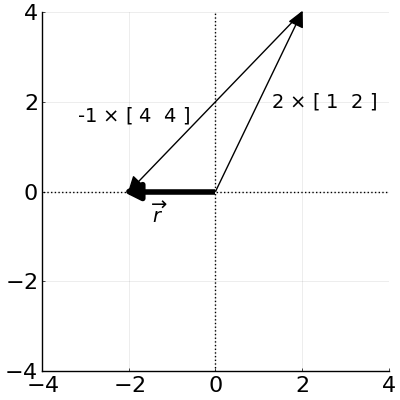
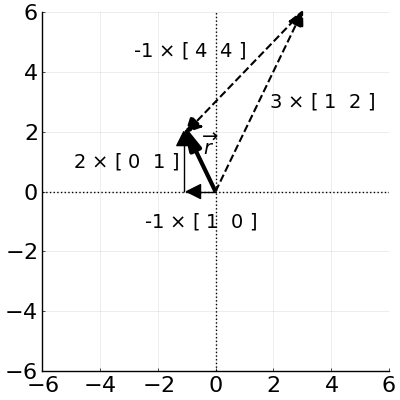
Move Ron's example vector off the x-axis.

diff --git a/linearIndep.tex b/linearIndep.tex
@@ -840,7 +840,7 @@ how.
 \index{domino basis}
 
 Ron has a two-dimensional vector called $\overrightarrow{\textbf{r}}$. I'll
-tell you that its coordinates are $2$ and $-1$, but before you try to visualize
+tell you that its coordinates are $3$ and $-1$, BUT before you try to visualize
 it, there's a catch: these coordinates are \textit{not} expressed in the
 standard basis, but in the ``\textit{domino basis}'' we've used several times
 in this chapter:
@@ -850,17 +850,17 @@ in this chapter:
 
 This is the first time I've used the phrase ``expressed as coordinates in a
 certain basis,'' because up until now, we've always been implicitly assuming
-the standard basis. If I said a vector had components ``3'' and ``4,'' it has
-gone without saying that I meant ``3 units in the $[\ 1\ \ 0\ ]$ direction, and
+the standard basis. If I said a vector had components ``7'' and ``4,'' it has
+gone without saying that I meant ``7 units in the $[\ 1\ \ 0\ ]$ direction, and
 4 units in the $[\ 0\ \ 1\ ]$ direction.'' Viewed in this way, a vector with
-coordinates 3 and 4 is really a linear combination of the two (standard) basis
+coordinates 7 and 4 is really a linear combination of the two (standard) basis
 vectors:
 
 \vspace{-.15in}
 \begin{align*}
-3 \cdot \begin{bmatrix} 1 \\ 0 \\ \end{bmatrix} +
+7 \cdot \begin{bmatrix} 1 \\ 0 \\ \end{bmatrix} +
 4 \cdot \begin{bmatrix} 0 \\ 1 \\ \end{bmatrix} = 
-\begin{bmatrix} 3 \\ 4 \\ \end{bmatrix}.
+\begin{bmatrix} 7 \\ 4 \\ \end{bmatrix}.
 \end{align*}
 \vspace{-.15in}
 
@@ -875,7 +875,7 @@ would write down this example vector as follows:
 
 \vspace{-.25in}
 \begin{align*}
-\begin{bmatrix} 3 \\ 4 \\ \end{bmatrix}_{B_s}.
+\begin{bmatrix} 7 \\ 4 \\ \end{bmatrix}_{B_s}.
 \end{align*}
 \vspace{-.15in}
 
@@ -889,7 +889,7 @@ Ron's vector like this:
 
 \vspace{-.15in}
 \begin{align*}
-\overrightarrow{r} = \begin{bmatrix} 2 \\ -1 \\ \end{bmatrix}_{B_d}.
+\overrightarrow{r} = \begin{bmatrix} 3 \\ -1 \\ \end{bmatrix}_{B_d}.
 \end{align*}
 \vspace{-.15in}
 
@@ -897,7 +897,7 @@ Our question is one of translation: what are Ron's coordinates in the
 \textit{standard} basis?
 
 If you think about it, that's a pretty easy question to answer. When Ron says
-his coordinates are ``2'' and ``$-1$,'' he merely means ``I've got two
+his coordinates are ``3'' and ``$-1$,'' he merely means ``I've got three
 \raisebox{-0.25\height}{\includegraphics[width=0.07\textwidth]{gray1_2.png}}'s
 and negative one
 \raisebox{-0.25\height}{\includegraphics[width=0.07\textwidth]{gray4_4.png}}'s.''
@@ -907,9 +907,9 @@ combination:
 \vspace{-.15in}
 \begin{align*}
 \overrightarrow{r} =
-2 \cdot \begin{bmatrix} 1 \\ 2 \end{bmatrix} +
+3 \cdot \begin{bmatrix} 1 \\ 2 \end{bmatrix} +
 (-1) \cdot \begin{bmatrix} 4 \\ 4 \end{bmatrix} =
-\begin{bmatrix} -2 \\ 0 \end{bmatrix}_{B_s}.
+\begin{bmatrix} -1 \\ 2 \end{bmatrix}_{B_s}.
 \end{align*}
 \vspace{-.15in}
 
@@ -922,25 +922,25 @@ representations are exactly equal:
 
 \vspace{-.15in}
 \begin{align*}
-\begin{bmatrix} 2 \\ -1 \end{bmatrix}_{B_d} =
-\begin{bmatrix} -2 \\ 0 \end{bmatrix}_{B_s}.
+\begin{bmatrix} 3 \\ -1 \end{bmatrix}_{B_d} =
+\begin{bmatrix} -1 \\ 2 \end{bmatrix}_{B_s}.
 \end{align*}
 \vspace{-.15in}
 
-You can see in Figure~\ref{basis} that whether we say ``two 
+You can see in Figure~\ref{fig:basis} that whether we say ``three
 {\scriptsize $\begin{bmatrix} 1 \\ 2 \end{bmatrix}$}'s and
 negative one {\scriptsize $\begin{bmatrix} 4 \\ 4 \end{bmatrix}$},'' or
-``negative two 
+``negative one
 {\scriptsize $\begin{bmatrix} 1 \\ 0 \end{bmatrix}$}'s and
-zero {\scriptsize $\begin{bmatrix} 0 \\ 1 \end{bmatrix}$},'' we get the same
+two {\scriptsize $\begin{bmatrix} 0 \\ 1 \end{bmatrix}$}'s,'' we get the same
 vector $\overrightarrow{\textbf{r}}$.
 
 \begin{figure}[ht]
 \centering
 \includegraphics[width=0.6\textwidth]{basis.png}
-\caption{In either the domino basis or the standard basis, Ron's vector is the
-same.}
-\label{basis}
+\caption{In either the domino basis (dashed lines) or the standard basis (thin
+solid lines), Ron's vector (thick solid line) is the same.}
+\label{fig:basis}
 \end{figure}
 
 
@@ -961,13 +961,13 @@ is a linear combination of the two standard basis vectors:
 \end{align*}
 \vspace{-.15in}
 
-What are her coordinates in the domino basis?
+But what are her coordinates in the domino basis?
 
 \index{inverse}
 
 I'm going to need to put you off on this all the way to
 p.~\pageref{changeOfBasisOtherWayFinally}, since it will involve a few concepts
-we haven't covered yet. I promise we'll return to it, though!
+we haven't covered yet. I promise we'll return to Hermione, though!
 
 \vspace{.6in}
 .

diff --git a/matrices.tex b/matrices.tex
@@ -752,8 +752,8 @@ basis $B_s$ or equivalently in the ``domino basis'' $B_d$:
 \vspace{-.15in}
 \begin{align*}
 \overrightarrow{r} =
-\begin{bmatrix} -2 \\ 0 \\ \end{bmatrix}_{B_s} =
-\begin{bmatrix} 2 \\ -1 \\ \end{bmatrix}_{B_d}.
+\begin{bmatrix} 3 \\ -1 \\ \end{bmatrix}_{B_d} =
+\begin{bmatrix} -1 \\ 2 \\ \end{bmatrix}_{B_s}.
 \end{align*}
 \vspace{-.15in}
 
@@ -791,8 +791,8 @@ because
 1 & 4 \\
 2 & 4 \\
 \end{bmatrix} \cdot
-\begin{bmatrix} 2 \\ -1 \end{bmatrix}_{B_d} =
-\begin{bmatrix} -2 \\ 0 \end{bmatrix}_{B_s}.
+\begin{bmatrix} 3 \\ -1 \end{bmatrix}_{B_d} =
+\begin{bmatrix} -1 \\ 2 \end{bmatrix}_{B_s}.
 \end{align*}
 \vspace{-.15in}
 
@@ -803,15 +803,17 @@ This $\textrm{COB}_{B_d \rightarrow B_s}$ matrix is called the
 \index{Hermione}
 \label{changeOfBasisOtherWayCliffhanger}
 
-What if we want to go in the other direction? Suppose Hermione has a vector
-$\overrightarrow{\textbf{h}}$ which, when expressed in the standard basis, is
+What if we want to go in the other direction? Remember, Hermione had a vector
+$\overrightarrow{\textbf{h}}$ which, when expressed in the standard basis, was
 {\scriptsize $\begin{bmatrix} 5 \\ 2 \end{bmatrix}$}. What are her coordinates
 in the domino basis?
 
 \index{inverse}
+\smallskip
 
-For that, we'll need a new concept called the \textbf{matrix inverse}, which we
-won't get to until p.~\pageref{matrixInverse}. Stay tuned.
+Hate to still leave you hanging on Hermione, but for that, we'll need a new
+concept called the \textbf{matrix inverse}, which we won't get to until
+p.~\pageref{matrixInverse}. Stay tuned.
 
 
 \section{``Special'' matrices}

diff --git a/matMult.tex b/matMult.tex
@@ -1544,6 +1544,9 @@ $\begin{bmatrix} 0 \\ 1 \end{bmatrix}$}'s,'' is equally expressible as
 {\scriptsize $\begin{bmatrix} 4 \\ 4 \end{bmatrix}$}'s.'' Multiply it out if
 you doubt me.
 
+% TODO: wouldn't hurt to show the same kind of diagram as generated in basis.jl
+% for Hermione's matrix, showing that the two basis representations give (5,2).
+
 \bigskip
 \bigskip
 .
